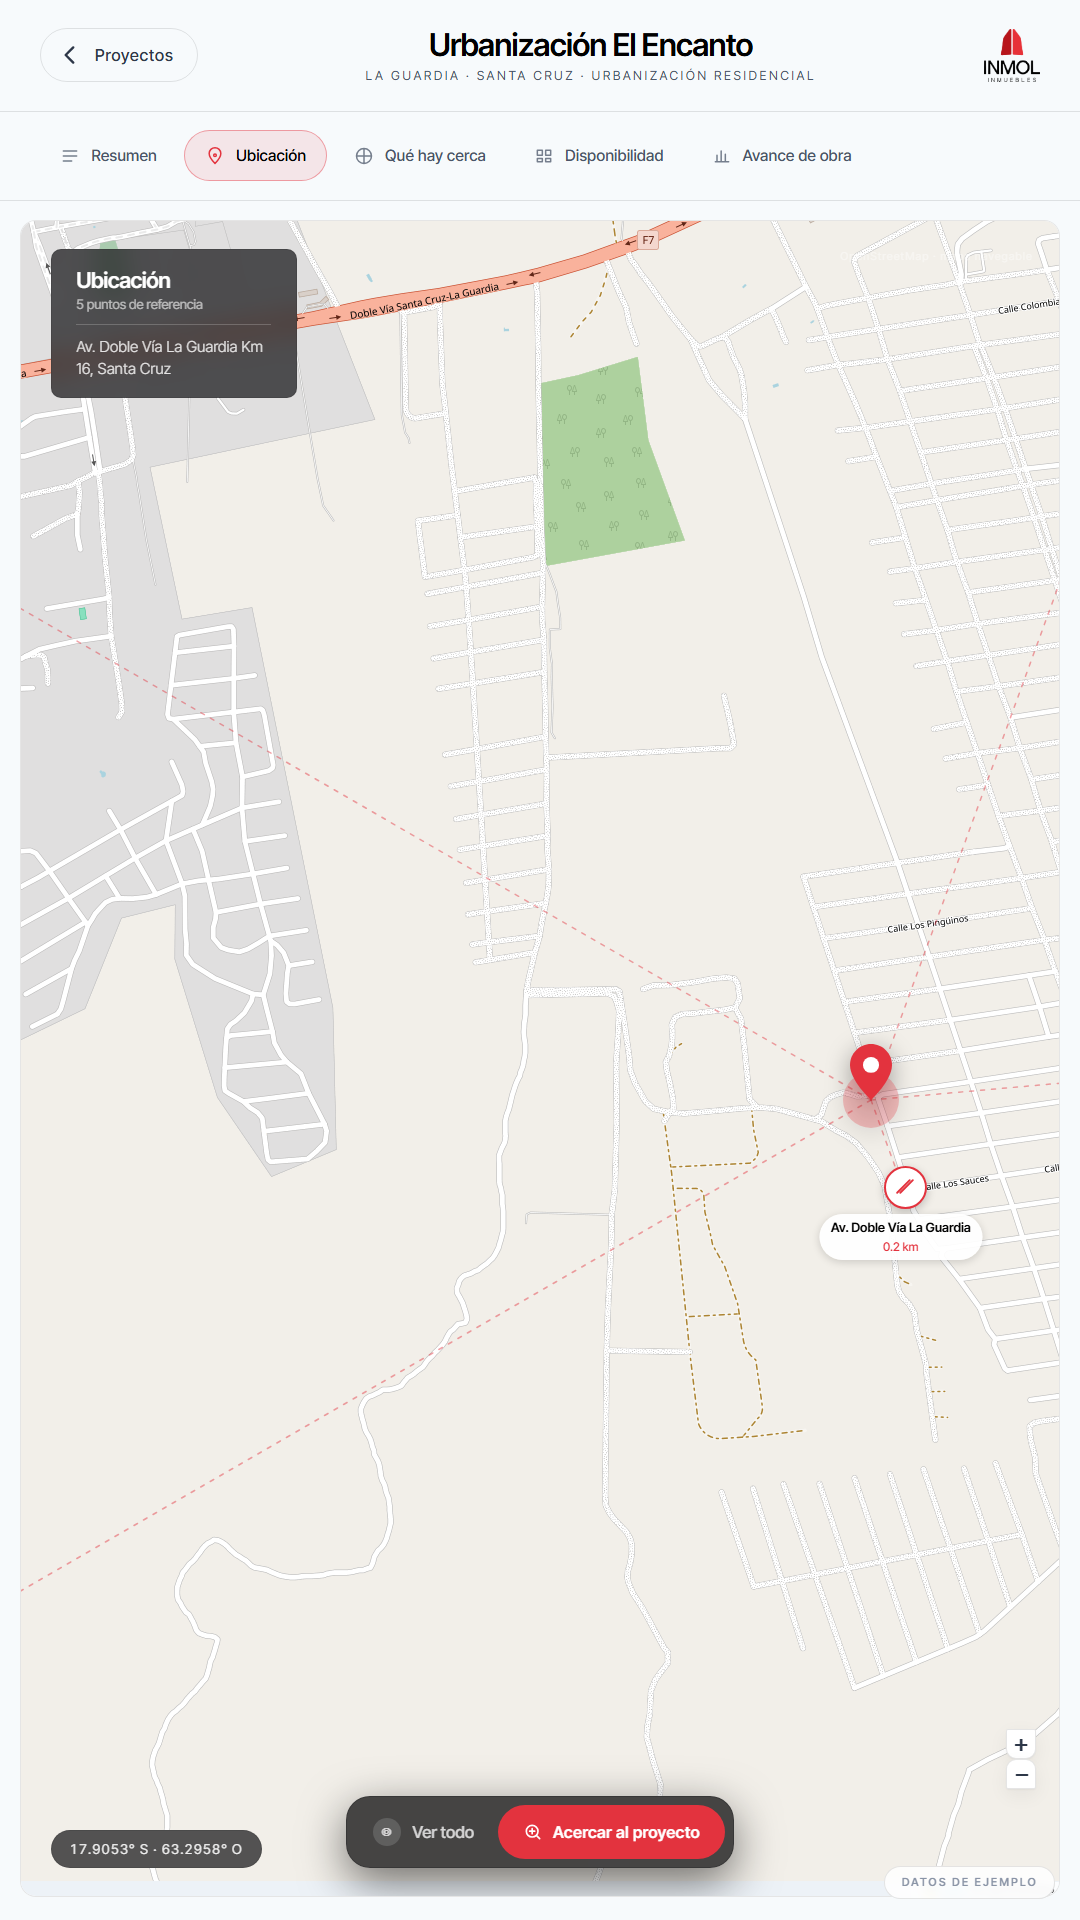
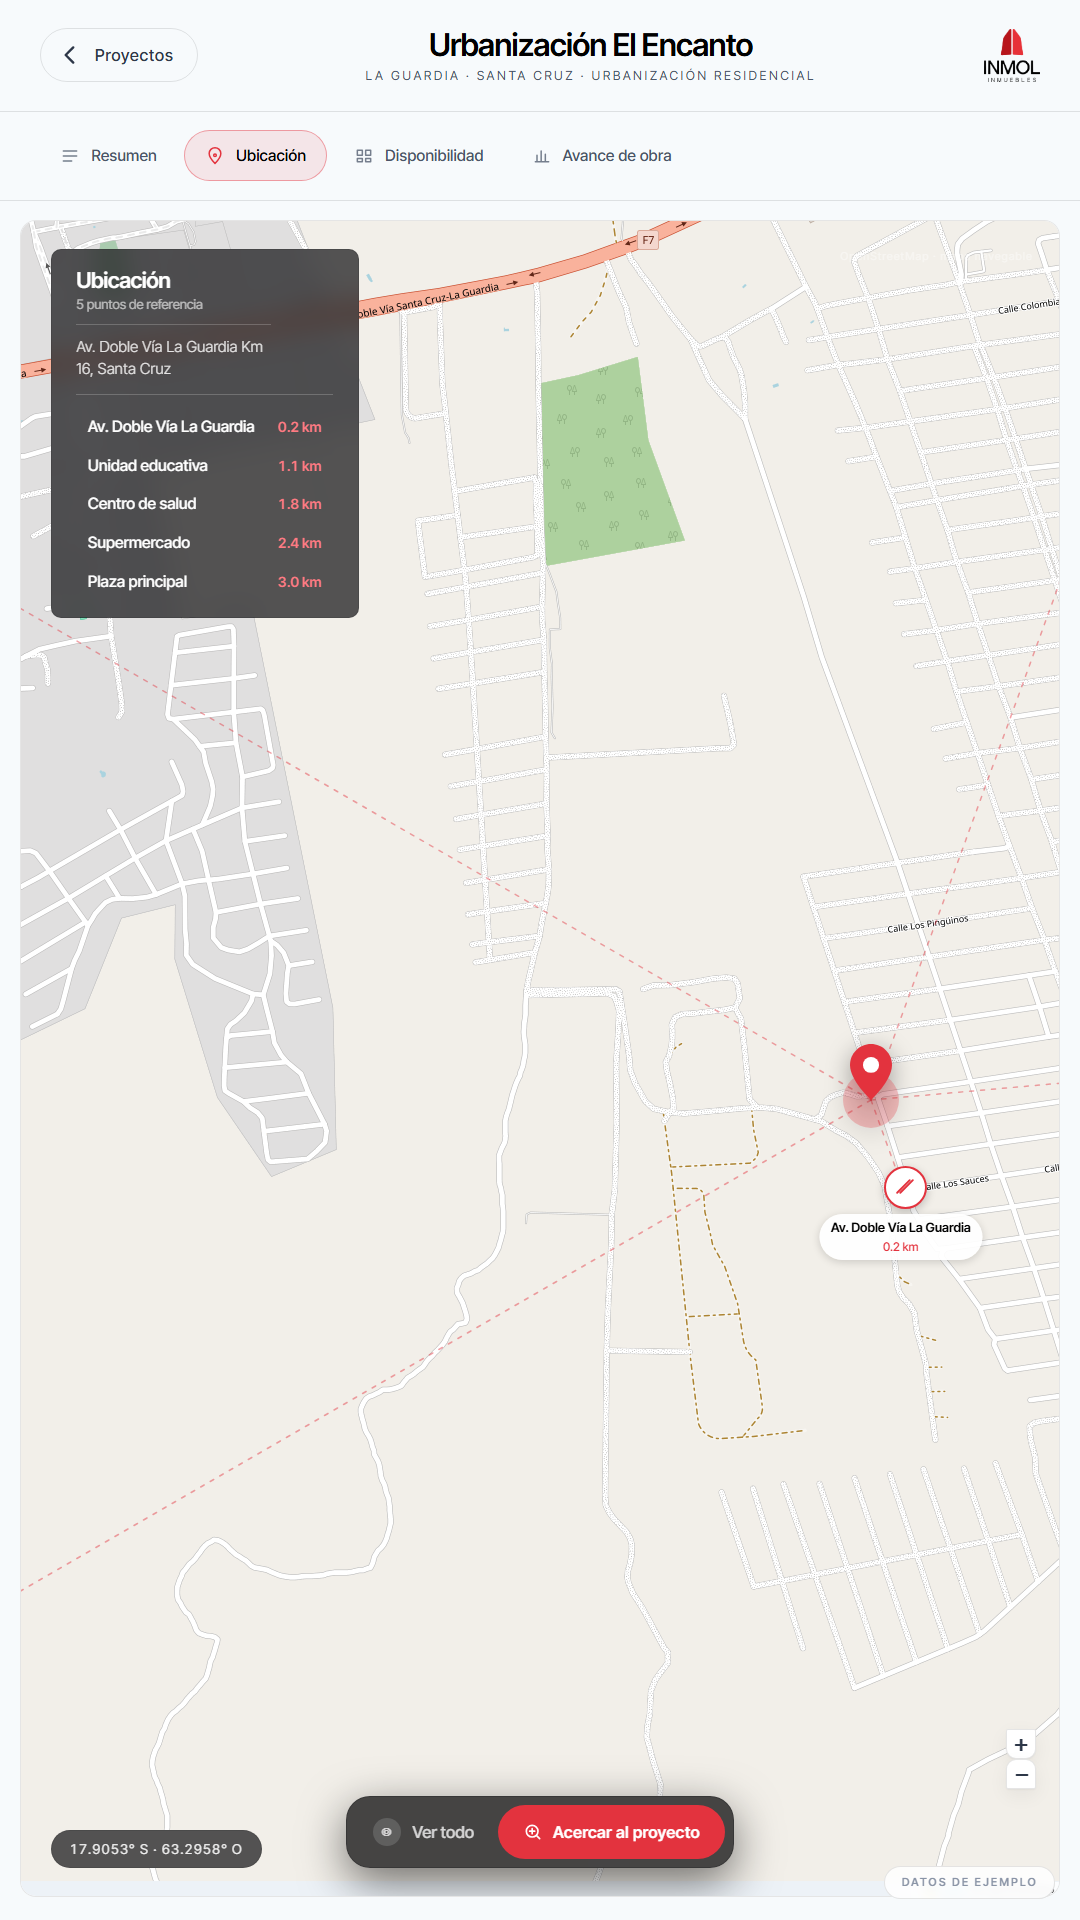
Fusiona «Qué hay cerca» dentro de «Ubicación»
Las referencias ya eran pines del mapa; tener además una sección aparte
con el mismo contenido duplicaba la información y sumaba una pestaña.

- La lista de referencias pasa a la ficha sobre el mapa, con su distancia
- Tocar una referencia lleva el mapa hasta su pin y abre su etiqueta
- Las pestañas bajan de cinco a cuatro
- Los tres proyectos tienen sus referencias como pines

diff --git a/js/app.js b/js/app.js
@@ -63,12 +63,13 @@ const ICONO_TAB = {
   avance:      'M4 19h16M6 19V11M11 19V6M16 19v-9'
 };
 
+/* «Qué hay cerca» se fusionó dentro de «Ubicación»: los puntos de referencia
+   ahora son pines sobre el mismo mapa, no una sección aparte. */
 const SECCIONES = [
-  { id: 'resumen',     etiqueta: 'Resumen' },
-  { id: 'ubicacion',   etiqueta: 'Ubicación' },
-  { id: 'referencias', etiqueta: 'Qué hay cerca' },
-  { id: 'lotes',       etiqueta: 'Disponibilidad' },
-  { id: 'avance',      etiqueta: 'Avance de obra' }
+  { id: 'resumen',   etiqueta: 'Resumen' },
+  { id: 'ubicacion', etiqueta: 'Ubicación' },
+  { id: 'lotes',     etiqueta: 'Disponibilidad' },
+  { id: 'avance',    etiqueta: 'Avance de obra' }
 ];
 
 function svgIcono(d, tam = 22) {
@@ -428,13 +429,21 @@ function sobrevuelo() {
 }
 
 /* --- 3.3 Referencias ----------------------------------------------------- */
+/* Lista de referencias dentro de la ficha de ubicación. Tocar una lleva el
+   mapa hasta ese pin. */
 function llenarReferencias(p) {
-  const cont = $('#refsMapa');
-  cont.innerHTML = '';
-  cont.appendChild(construirMapaReferencias(p));
-
-  $('#refsLista').innerHTML = p.referencias
-    .map(r => `<li><b>${r.nombre}</b><span>${r.distancia}</span></li>`).join('');
+  const lista = $('#satRefs');
+  lista.innerHTML = '';
+  (p.referencias || []).forEach((r, i) => {
+    const li = document.createElement('li');
+    li.innerHTML = `<b>${r.nombre}</b><span>${r.distancia}</span>`;
+    li.addEventListener('click', () => {
+      $$('#satRefs li').forEach(o => o.classList.remove('activa'));
+      li.classList.add('activa');
+      MapaReal.irAReferencia(i);
+    });
+    lista.appendChild(li);
+  });
 }
 
 /* --- 3.4 Lotes ----------------------------------------------------------- */

diff --git a/css/estilos.css b/css/estilos.css
@@ -577,6 +577,7 @@ body.sin-animacion .atr-fondo > .visible {
   padding: 1rem 1.5rem;
   background: rgba(8,8,10,.68); backdrop-filter: blur(14px);
   border: 1px solid var(--linea); border-radius: var(--r-sm);
+  max-width: 23rem;
 }
 .sat-nivel-nombre {
   font-size: 1.32rem; font-weight: 600; letter-spacing: -.02em;
@@ -800,6 +801,27 @@ body.sin-animacion .atr-fondo > .visible {
 .etapa-fila.completa .etapa-relleno {
   background: linear-gradient(90deg, #2A8A52 0%, var(--verde) 100%);
 }
+
+/* Lista de puntos de referencia dentro de la ficha de ubicación */
+.sat-refs {
+  margin-top: .8rem; padding-top: .8rem;
+  border-top: 1px solid rgba(255,255,255,.2);
+  display: flex; flex-direction: column; gap: .1rem;
+  max-height: 22rem; overflow: auto;
+}
+.sat-refs li {
+  display: flex; align-items: baseline; justify-content: space-between; gap: 1.4rem;
+  padding: .55rem .7rem; border-radius: 8px;
+  cursor: pointer; transition: background 220ms;
+}
+.sat-refs li:active, .sat-refs li.activa { background: rgba(227,51,62,.28); }
+.sat-refs li b { font-size: .95rem; font-weight: 500; color: #FFFFFF; }
+/* Rojo claro: la ficha es oscura, el --rojo-vivo del tema claro no se leería */
+.sat-refs li span {
+  font-size: .85rem; font-weight: 600; color: #FF7A82;
+  font-variant-numeric: tabular-nums; flex: none;
+}
+.sat-refs li.activa span { color: #FFFFFF; }
 
 /* Los rótulos de la sección de ubicación son chips oscuros sobre el mapa:
    su texto va claro aunque el resto del panel sea tema claro. */

diff --git a/index.html b/index.html
@@ -119,10 +119,13 @@
           </div>
         </div>
 
+        <!-- Ficha de ubicación: dirección y puntos de referencia. Antes esto
+             era una sección aparte («Qué hay cerca»); ahora vive sobre el mapa. -->
         <div class="sat-hud">
           <div class="sat-nivel-nombre" id="satNivelNombre"></div>
           <div class="sat-nivel-det" id="satNivelDet"></div>
           <p class="sat-dir-txt" id="satDireccion"></p>
+          <ul class="sat-refs" id="satRefs"></ul>
         </div>
 
         <div class="sat-coord" id="satCoord"></div>
@@ -144,17 +147,6 @@
             Acercar al proyecto
           </button>
         </div>
-      </div>
-    </div>
-
-    <!-- ── REFERENCIAS ────────────────────────────────────────────────── -->
-    <div class="pane" data-pane="referencias">
-      <div class="refs-wrap">
-        <div class="refs-mapa" id="refsMapa"></div>
-        <aside class="refs-lista">
-          <h3 class="titulo-bloque">Puntos de referencia</h3>
-          <ul id="refsLista"></ul>
-        </aside>
       </div>
     </div>
 

diff --git a/js/mapa-real.js b/js/mapa-real.js
@@ -131,6 +131,18 @@ const MapaReal = {
     }
   },
 
+  /* Vuela hasta un punto de referencia y abre su etiqueta */
+  irAReferencia(indice) {
+    if (!this.mapa || !this.proyectoActual) return;
+    const ref = (this.proyectoActual.referencias || [])[indice];
+    if (!ref) return;
+    const pos = this.posicionReferencia(this.proyectoActual, ref);
+    this.mapa.flyTo(pos, 16, { duration: 1.6 });
+    // Los marcadores se guardan como pin, línea, pin, línea… tras el principal
+    const marcador = this.marcadores[1 + indice * 2];
+    if (marcador && marcador.openPopup) setTimeout(() => marcador.openPopup(), 1700);
+  },
+
   /* Vuela al proyecto, como el sobrevuelo de la vista satelital */
   acercar() {
     if (!this.mapa || !this.proyectoActual) return;

diff --git a/herramientas/probar-clics.js b/herramientas/probar-clics.js
@@ -104,14 +104,14 @@ const ALTO  = parseInt(process.argv[4], 10) || 1080;
     return true;
   };
 
-  const esperadas = ['resumen', 'ubicacion', 'referencias', 'lotes', 'avance'];
-  for (let i = 0; i < 5; i++) {
+  const esperadas = ['resumen', 'ubicacion', 'lotes', 'avance'];
+  for (let i = 0; i < esperadas.length; i++) {
     await clicSel('.tab', i); await esperar(280);
     const e = await estado();
     ok(`Pestaña ${i + 1} → ${e.seccion}`, e.seccion === esperadas[i]);
   }
 
-  await clicSel('.tab', 3); await esperar(300);
+  await clicSel('.tab', 2); await esperar(300);
   await clicSel('.plano-svg .lote', 25); await esperar(220);
   let e = await estado();
   ok(`Clic en un lote → ${e.lote || 'NADA'}`, !!e.lote);
